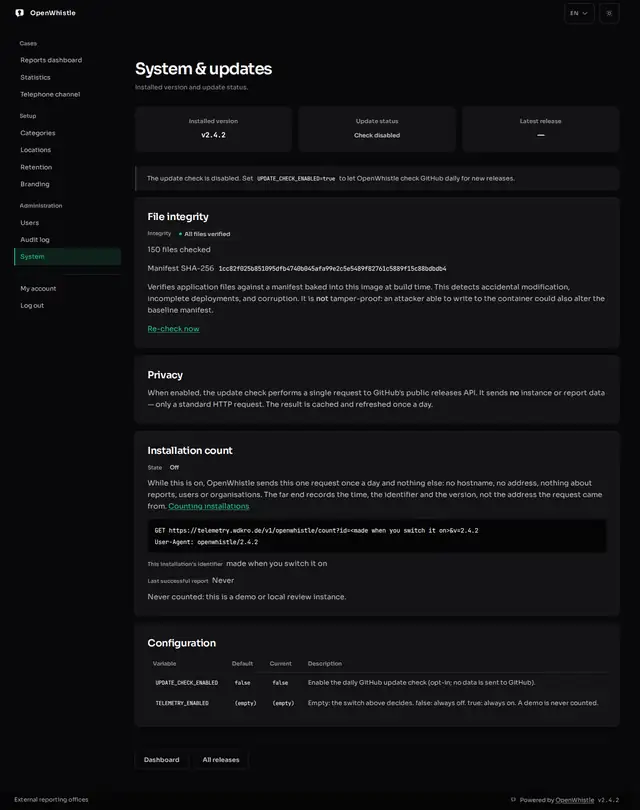
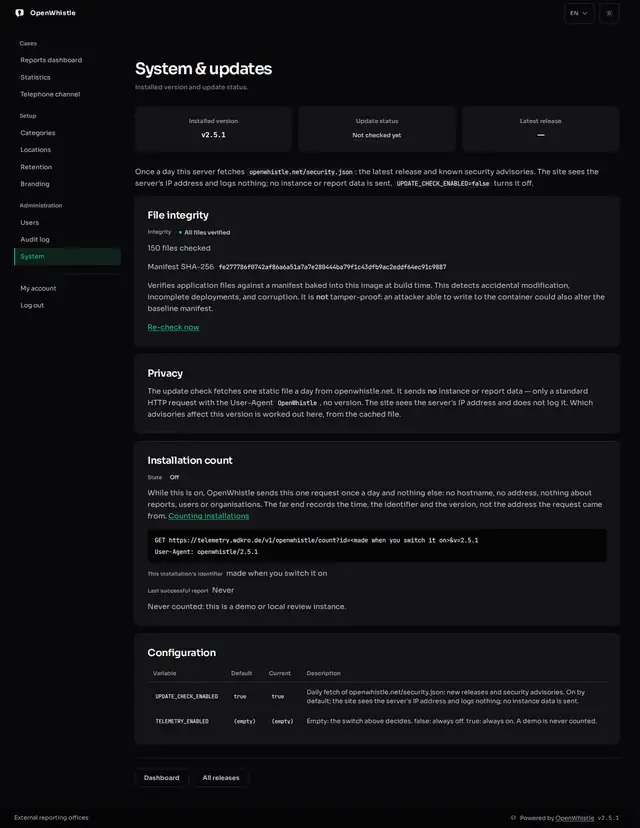
release: app 2.5.1 (version spots, screenshots, roadmap renumbered)
The planned "Multi-Channel Intake" release was numbered 2.5.0, the
number the advisory notice shipped under: the plan moves to 2.6.0,
end-to-end encryption to 2.7.0, compliance expansion to 2.8.0.

Claude-Session: https://claude.ai/code/session_01FKEGX9RGdDXHv8qJap41YM

diff --git a/docs/en/roadmap/index.html b/docs/en/roadmap/index.html
@@ -29,9 +29,9 @@ jsonld:
       <div class="sidebar-section">
         <div class="sidebar-section-title">On This Page</div>
         <nav class="sidebar-links" aria-label="On this page">
-          <a href="#v2-5-0" class="active">v2.5.0</a>
-          <a href="#v2-6-0">v2.6.0</a>
+          <a href="#v2-6-0" class="active">v2.6.0</a>
           <a href="#v2-7-0">v2.7.0</a>
+          <a href="#v2-8-0">v2.8.0</a>
           <a href="#released">Already released</a>
         </nav>
       </div>
@@ -67,15 +67,15 @@ jsonld:
       <div class="callout callout-note">
         <div class="callout-title">Ordering principle</div>
         <p>
-          Breadth before depth. Release 2.5.0 changes how <em>every</em> deployment receives and
-          connects reports. Release 2.6.0 changes how every deployment stores them. v2.7.0 adds modules for specific German
+          Breadth before depth. Release 2.6.0 changes how <em>every</em> deployment receives and
+          connects reports. Release 2.7.0 changes how every deployment stores them. v2.8.0 adds modules for specific German
           regulations (LkSG, KWG, CSRD), useful to some operators only. The order is a plan, not a promise: it moves when a reason turns up.
         </p>
       </div>
 
-      <!-- v2.5.0 -->
-      <section class="docs-section" id="v2-5-0" aria-labelledby="v2-5-0-h2">
-        <h2 id="v2-5-0-h2">v2.5.0 — Multi-Channel Intake &amp; Integration Hooks</h2>
+      <!-- v2.6.0 -->
+      <section class="docs-section" id="v2-6-0" aria-labelledby="v2-6-0-h2">
+        <h2 id="v2-6-0-h2">v2.6.0 — Multi-Channel Intake &amp; Integration Hooks</h2>
         <p>
           More ways to receive a report, and hooks into compliance tooling (SIEM, GRC, ticketing)
           that never expose case content.
@@ -163,11 +163,11 @@ jsonld:
         </ul>
       </section>
 
-      <!-- v2.6.0 -->
-      <section class="docs-section" id="v2-6-0" aria-labelledby="v2-6-0-h2">
-        <h2 id="v2-6-0-h2">v2.6.0 — End-to-End Encryption</h2>
+      <!-- v2.7.0 -->
+      <section class="docs-section" id="v2-7-0" aria-labelledby="v2-7-0-h2">
+        <h2 id="v2-7-0-h2">v2.7.0 — End-to-End Encryption</h2>
         <p>
-          Today the server encrypts a report at rest but can read it. From v2.6.0 it cannot: a
+          Today the server encrypts a report at rest but can read it. From v2.7.0 it cannot: a
           report is readable only with the reporter's PIN or a handler's key.
         </p>
 
@@ -191,9 +191,9 @@ jsonld:
         </ul>
       </section>
 
-      <!-- v2.7.0 -->
-      <section class="docs-section" id="v2-7-0" aria-labelledby="v2-7-0-h2">
-        <h2 id="v2-7-0-h2">v2.7.0 — Compliance Expansion (LkSG, KWG, CSRD)</h2>
+      <!-- v2.8.0 -->
+      <section class="docs-section" id="v2-8-0" aria-labelledby="v2-8-0-h2">
+        <h2 id="v2-8-0-h2">v2.8.0 — Compliance Expansion (LkSG, KWG, CSRD)</h2>
         <p>
           Obligations beyond HinSchG, as add-on modules that leave the whistleblower flow unchanged.
           LkSG (since 2023) needs a supply-chain channel, KWG a banking one; CSRD disclosures refer
@@ -306,7 +306,7 @@ jsonld:
         <h2 id="released-h2">Already released</h2>
         <p>
           Every shipped release, newest first, is on the
-          <a href="/en/changelog/">Changelog</a> page. The latest, v2.4.2, is a security patch. It updates pypdf and pyasn1 (eleven CVEs) and ends a stolen admin session with the password change. It also keeps the reporter's address out of a full nginx disk's log, and § 17 deadlines end with their last day. Version 2.4.1 refused a crafted PDF that could stall the anonymous channel. Version 2.4.0 added branding and linked the external reporting offices and the operator's legal notices from every page.
+          <a href="/en/changelog/">Changelog</a> page. The latest, v2.5.1, fixes a wrong default on the System page. Version 2.5.0 tells admins on the dashboard when their version has a published security advisory. Version 2.4.2 was a security patch. It updated pypdf and pyasn1 (eleven CVEs) and ended a stolen admin session with the password change. It also kept the reporter's address out of a full nginx disk's log, and § 17 deadlines now end with their last day. Version 2.4.1 refused a crafted PDF that could stall the anonymous channel. Version 2.4.0 added branding and linked the external reporting offices and the operator's legal notices from every page.
         </p>
       </section>
 

diff --git a/docs/en/docs/admin/index.html b/docs/en/docs/admin/index.html
@@ -181,8 +181,8 @@ js:
 
         <h2 id="system-updates">System &amp; updates</h2>
         <figure class="doc-shot">
-          <picture><source media="(max-width: 600px)" srcset="/img/screens/admin-system-light-m.webp"><img class="shot-light" src="/img/screens/admin-system-light.png" alt="System and updates: installed version and update status, the file integrity check, the installation count card and the two settings behind them." width="1440" height="1822" loading="lazy"></picture>
-          <picture><source media="(max-width: 600px)" srcset="/img/screens/admin-system-dark-m.webp"><img class="shot-dark" src="/img/screens/admin-system-dark.png" alt="System and updates: installed version and update status, the file integrity check, the installation count card and the two settings behind them." width="1440" height="1822" loading="lazy"></picture>
+          <picture><source media="(max-width: 600px)" srcset="/img/screens/admin-system-light-m.webp"><img class="shot-light" src="/img/screens/admin-system-light.png" alt="System and updates: installed version and update status, the file integrity check, the installation count card and the two settings behind them." width="1440" height="1864" loading="lazy"></picture>
+          <picture><source media="(max-width: 600px)" srcset="/img/screens/admin-system-dark-m.webp"><img class="shot-dark" src="/img/screens/admin-system-dark.png" alt="System and updates: installed version and update status, the file integrity check, the installation count card and the two settings behind them." width="1440" height="1864" loading="lazy"></picture>
         </figure>
         <ul>
           <li><code>/admin/system</code> (with multi-tenancy: superadmin only) shows the installed version. It also says whether a newer release exists: once a day the server fetches <code>openwhistle.net/security.json</code>, cached, no instance data sent. <code>UPDATE_CHECK_ENABLED=false</code> turns it off.</li>

diff --git a/docs/en/docs/whistleblower/index.html b/docs/en/docs/whistleblower/index.html
@@ -53,8 +53,8 @@ js:
           saved them.
         </p>
         <figure class="doc-shot">
-          <picture><source media="(max-width: 600px)" srcset="/img/screens/submit-success-light-m.webp"><img class="shot-light" src="/img/screens/submit-success-light.png" alt="Report submitted: the case number and the secret PIN, each with a copy button, a checkbox confirming they are saved, and Continue to report status." width="1440" height="1199" loading="lazy"></picture>
-          <picture><source media="(max-width: 600px)" srcset="/img/screens/submit-success-dark-m.webp"><img class="shot-dark" src="/img/screens/submit-success-dark.png" alt="Report submitted: the case number and the secret PIN, each with a copy button, a checkbox confirming they are saved, and Continue to report status." width="1440" height="1199" loading="lazy"></picture>
+          <picture><source media="(max-width: 600px)" srcset="/img/screens/submit-success-light-m.webp"><img class="shot-light" src="/img/screens/submit-success-light.png" alt="Report submitted: the case number and the secret PIN, each with a copy button, a checkbox confirming they are saved, and Continue to report status." width="1440" height="1207" loading="lazy"></picture>
+          <picture><source media="(max-width: 600px)" srcset="/img/screens/submit-success-dark-m.webp"><img class="shot-dark" src="/img/screens/submit-success-dark.png" alt="Report submitted: the case number and the secret PIN, each with a copy button, a checkbox confirming they are saved, and Continue to report status." width="1440" height="1207" loading="lazy"></picture>
         </figure>
         <ul>
           <li>A second click on <em>Submit</em> never creates a second report. It shows the same case number and PIN, or, while the first click still runs, a <em>still being processed</em> page with <em>Check again</em>.</li>

diff --git a/docs/de/blog/whistleblower-software-vergleich.html b/docs/de/blog/whistleblower-software-vergleich.html
@@ -182,7 +182,7 @@ jsonld:
               </thead>
               <tbody>
                 <tr><td>Seit</td><td data-label="GlobaLeaks">2011 <a class="cite" href="#q1">[1]</a></td><td class="col-ow" data-label="OpenWhistle">April 2026 (0.1.0)</td></tr>
-                <tr><td>Aktuelles Release</td><td data-label="GlobaLeaks">5.0.99, 26. Juli 2026 <a class="cite" href="#q3">[3]</a></td><td class="col-ow" data-label="OpenWhistle">2.4.2, 4. November 2026</td></tr>
+                <tr><td>Aktuelles Release</td><td data-label="GlobaLeaks">5.0.99, 26. Juli 2026 <a class="cite" href="#q3">[3]</a></td><td class="col-ow" data-label="OpenWhistle">2.5.1, 4. November 2026</td></tr>
                 <tr><td>Lizenz</td><td data-label="GlobaLeaks">AGPL-3.0 <a class="cite" href="#q2">[2]</a></td><td class="col-ow" data-label="OpenWhistle">GPL-3.0</td></tr>
                 <tr><td>Programmiersprache</td><td data-label="GlobaLeaks">Python, TypeScript <a class="cite" href="#q2">[2]</a></td><td class="col-ow" data-label="OpenWhistle">Python</td></tr>
                 <tr><td>Installation</td><td data-label="GlobaLeaks">Debian, Ubuntu; Docker <a class="cite" href="#q4">[4]</a> <a class="cite" href="#q5">[5]</a></td><td class="col-ow" data-label="OpenWhistle">Docker Compose, Helm</td></tr>

diff --git a/docs/en/blog/whistleblowing-software-comparison.html b/docs/en/blog/whistleblowing-software-comparison.html
@@ -182,7 +182,7 @@ jsonld:
               </thead>
               <tbody>
                 <tr><td>Since</td><td data-label="GlobaLeaks">2011 <a class="cite" href="#q1">[1]</a></td><td class="col-ow" data-label="OpenWhistle">April 2026 (0.1.0)</td></tr>
-                <tr><td>Current release</td><td data-label="GlobaLeaks">5.0.99, 26 July 2026 <a class="cite" href="#q3">[3]</a></td><td class="col-ow" data-label="OpenWhistle">2.4.2, 4 November 2026</td></tr>
+                <tr><td>Current release</td><td data-label="GlobaLeaks">5.0.99, 26 July 2026 <a class="cite" href="#q3">[3]</a></td><td class="col-ow" data-label="OpenWhistle">2.5.1, 4 November 2026</td></tr>
                 <tr><td>Licence</td><td data-label="GlobaLeaks">AGPL-3.0 <a class="cite" href="#q2">[2]</a></td><td class="col-ow" data-label="OpenWhistle">GPL-3.0</td></tr>
                 <tr><td>Programming language</td><td data-label="GlobaLeaks">Python, TypeScript <a class="cite" href="#q2">[2]</a></td><td class="col-ow" data-label="OpenWhistle">Python</td></tr>
                 <tr><td>Installation</td><td data-label="GlobaLeaks">Debian, Ubuntu; Docker <a class="cite" href="#q4">[4]</a> <a class="cite" href="#q5">[5]</a></td><td class="col-ow" data-label="OpenWhistle">Docker Compose, Helm</td></tr>

diff --git a/docs/en/docs/index.html b/docs/en/docs/index.html
@@ -45,7 +45,13 @@ js:
         </ul>
 
         <h2 id="current-version">Current version</h2>
-        <p><strong>v2.4.2</strong>, a security release. What it changed:</p>
+        <p><strong>v2.5.1</strong>: <code>/admin/system</code> listed the default of <code>UPDATE_CHECK_ENABLED</code> as <code>false</code>; it is <code>true</code>.</p>
+        <p>What v2.5.0 changed:</p>
+        <ul>
+          <li>Admins see on the dashboard and on <code>/admin/system</code> when the running version has a published security advisory, and which release fixes it.</li>
+          <li>The update check is on by default and reads <code>openwhistle.net/security.json</code> once a day instead of GitHub; <code>UPDATE_CHECK_ENABLED=false</code> turns it off.</li>
+        </ul>
+        <p>What v2.4.2 changed, a security release:</p>
         <ul>
           <li>pypdf 6.21.4 and pyasn1 0.6.5: eleven CVEs, the pypdf ones reachable through an anonymous PDF upload.</li>
           <li>A password change, deactivation or authenticator reset now ends a stolen session even while it refreshes.</li>

diff --git a/docs/de/index.html b/docs/de/index.html
@@ -21,7 +21,7 @@ jsonld:
     price: '0'
     priceCurrency: EUR
   license: https://www.gnu.org/licenses/gpl-3.0.html
-  softwareVersion: 2.4.2
+  softwareVersion: 2.5.1
   downloadUrl: https://github.com/openwhistle/OpenWhistle/releases/latest
   installUrl: https://openwhistle.net/en/docs/install/
   softwareHelp:
@@ -179,7 +179,7 @@ jsonld:
         </div>
 
         <div class="hero-meta" role="list">
-          <span class="hero-meta-item" role="listitem">Version 2.4.2</span>
+          <span class="hero-meta-item" role="listitem">Version 2.5.1</span>
           <span class="hero-meta-item" role="listitem">GPL-3.0</span>
           <span class="hero-meta-item" role="listitem">Python 3.15</span>
           <span class="hero-meta-item" role="listitem">Docker</span>

diff --git a/docs/en/index.html b/docs/en/index.html
@@ -21,7 +21,7 @@ jsonld:
     price: '0'
     priceCurrency: EUR
   license: https://www.gnu.org/licenses/gpl-3.0.html
-  softwareVersion: 2.4.2
+  softwareVersion: 2.5.1
   downloadUrl: https://github.com/openwhistle/OpenWhistle/releases/latest
   installUrl: https://openwhistle.net/en/docs/install/
   softwareHelp:
@@ -172,7 +172,7 @@ jsonld:
         </div>
 
         <div class="hero-meta" role="list">
-          <span class="hero-meta-item" role="listitem">Version 2.4.2</span>
+          <span class="hero-meta-item" role="listitem">Version 2.5.1</span>
           <span class="hero-meta-item" role="listitem">GPL-3.0</span>
           <span class="hero-meta-item" role="listitem">Python 3.15</span>
           <span class="hero-meta-item" role="listitem">Docker</span>

diff --git a/docs/en/compare/index.html b/docs/en/compare/index.html
@@ -166,7 +166,7 @@ jsonld:
               </tr>
               <tr>
                 <th scope="row">Latest release</th>
-                <td>2.4.2 (2026-11-04)</td>
+                <td>2.5.1 (2026-11-04)</td>
                 <td>5.0.99 (2026-07-26)</td>
                 <td>2.16.1 (2026-07-08)</td>
                 <td>0.7.34 (2026-10-21)</td>
